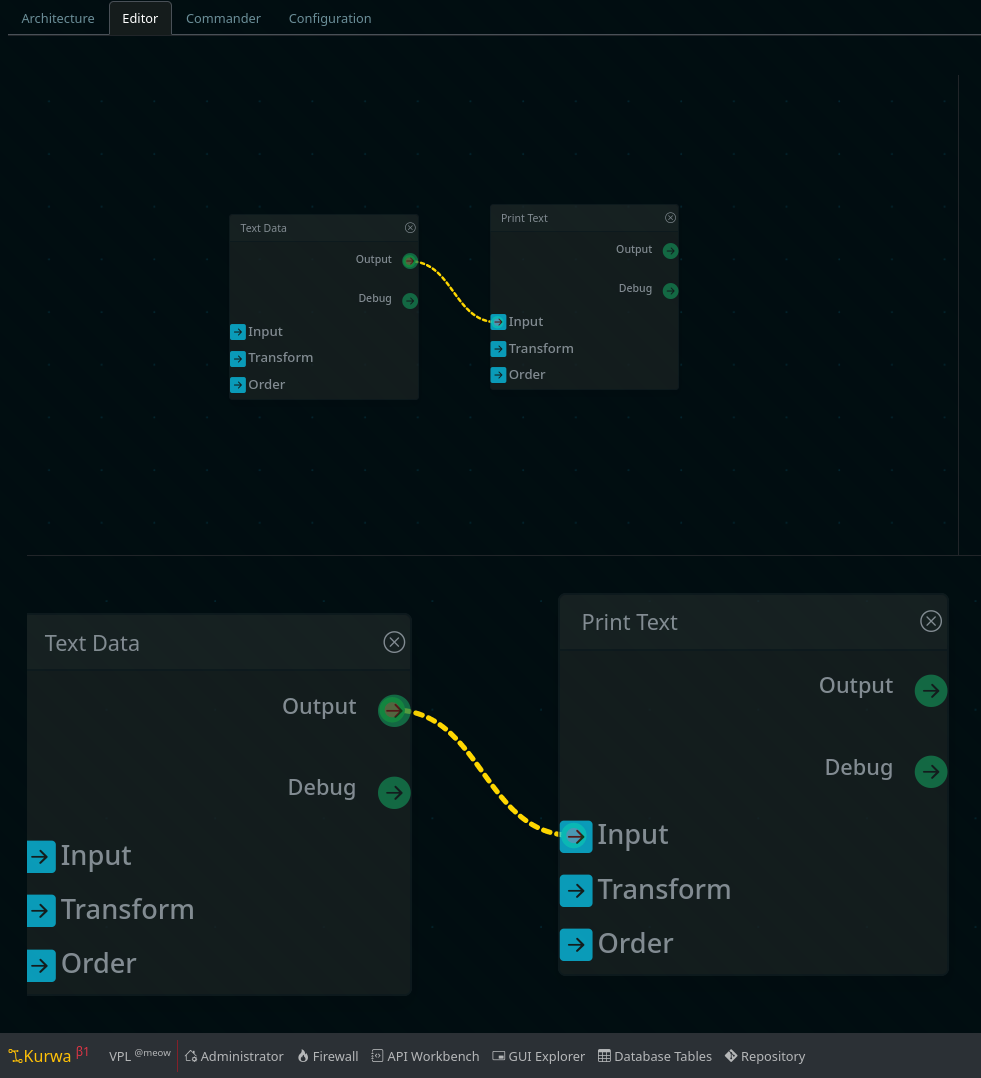
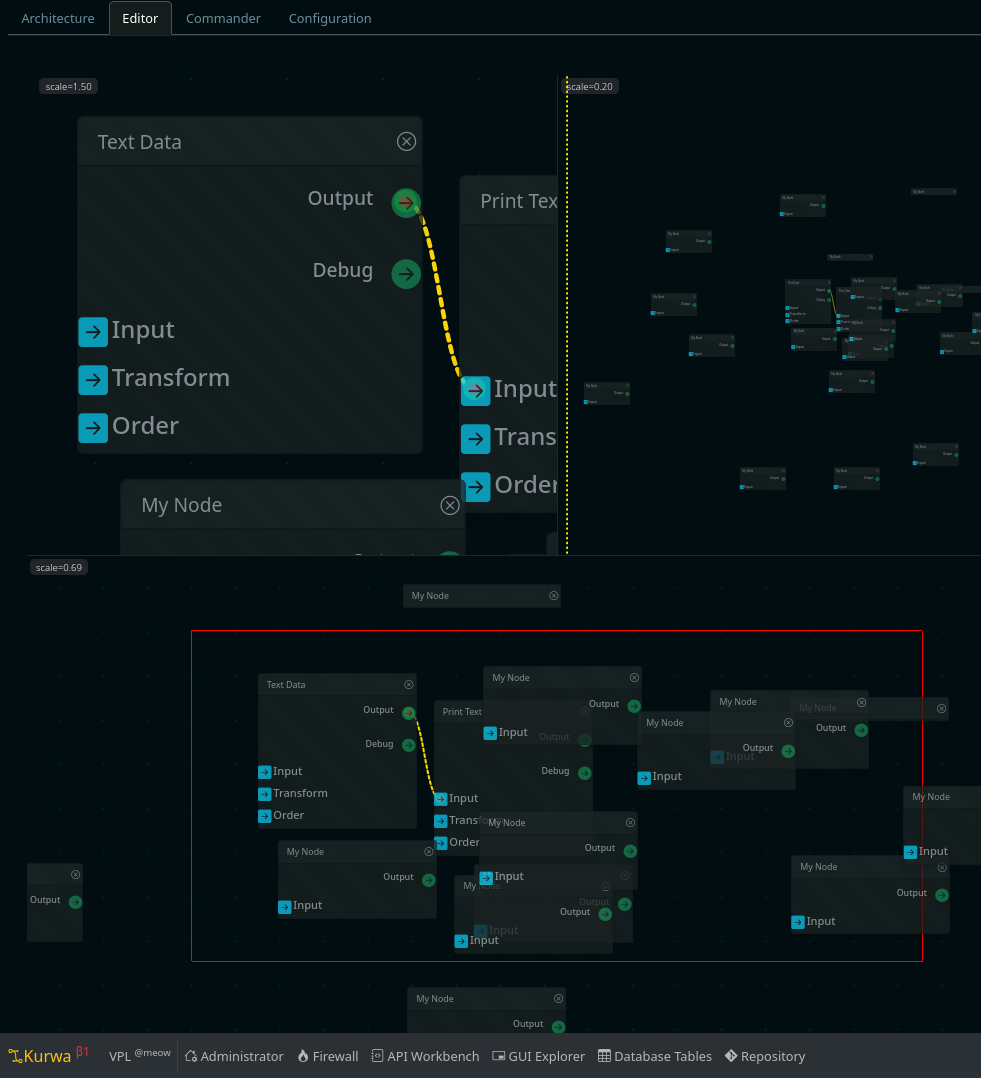
Node Creation (dblclick) :shipit:

diff --git a/src/lib/ui/vpl/View.svelte b/src/lib/ui/vpl/View.svelte
@@ -12,6 +12,7 @@ import Source from '$lib/ui/Source.svelte';
 import Node from '$lib/ui/vpl/Node.svelte';
 import Anchor from '$lib/ui/vpl/Anchor.svelte';
 import {pulline} from '$lib/traits/pullable.js';
+import {toolbox} from '$lib/actions/toolbox.js';
 
 let unsubscribe = [];
 
@@ -29,16 +30,34 @@ let parent = {};
 let nodes = [];
 let edges;
 
+let updates = 0;
+$: refresh(updates);
+
+async function refresh(){
+  console.info('FINISH ME: Assemble Nodes In Here...! Or is this too much info, they can be assembeled inside api too');
+  parent = await system.node($location);
+  nodes = await system.list($location);
+  edges = parent.writable.edges; // All the edges are stored in the parent.
+  console.log('EDGES', $edges);
+}
+
 onMount(() => {
+
+
+
   unsubscribe.push(location.subscribe(async value=>{
-    console.info('FINISH ME: Assemble Nodes In Here...! Or is this too much info, they can be assembeled inside api too');
-
-    parent = await system.node($location);
-    nodes = await system.list($location);
-    edges = parent.writable.edges; // All the edges are stored in the parent.
-    console.log('EDGES', $edges);
-
+    await refresh()
   }))
+  // unsubscribe.push(system.records.subscribe(async value=>{
+  //   console.info('FINISH ME: Assemble Nodes In Here...! Or is this too much info, they can be assembeled inside api too');
+  //   parent = await system.node($location);
+  //   nodes = await system.list($location);
+  //   edges = parent.writable.edges; // All the edges are stored in the parent.
+  //   console.log('EDGES', $edges);
+  // }))
+
+  // this.records.subscribe(records=>console.log('Records have changed', records))
+
 });
 onDestroy(() => {
   unsubscribe.map(o=>o())
@@ -64,7 +83,11 @@ function panzoom(elem, options){
   // This example also showcases the canvas option
   // Pointer events anywhere in the parent move
   // the target.
-  const panzoom = Panzoom(elem, { startScale: options.scale, canvas: true })
+  const panzoom = Panzoom(elem, {
+    startScale: options.scale,
+    canvas: true,
+    handleStartEvent: () => {},
+  })
   const parent = elem.parentElement
   // No function bind needed
   parent.addEventListener('wheel', panzoom.zoomWithWheel)
@@ -80,74 +103,56 @@ function panzoom(elem, options){
     translate.y.set(event.detail.y);
     translate.z.set(event.detail.scale);
   })
-
-
-
 }
 
 
-
-function fixCircularReferences() {
-  const defs={};
-  return (k,v) => {
-    const def = defs[v];
-    if (def && typeof(v) == 'object') return '['+k+' is the same as '+def+']';
-    defs[v]=k;
-    return v;
-  }
+async function createNode(seed){
+  const options = {
+    name: "My Node",
+    input: JSON.stringify([ { id: "in", name: "Input", top: 0, left: 0 } ]),
+    output: JSON.stringify([ { id: "out", name: "Output", top: 0, left: 0 } ]),
+    edges: JSON.stringify([]),
+  };
+  const node = Object.assign({}, seed, options)
+  await system.create($location, JSON.stringify(node))
+  await refresh()
 }
+
 </script>
 
- 
+
 
 {#if $location}
   <div bind:this={node} class="panzoom-parent position-relative" style=" overflow: hidden; user-select: none; touch-action: none; cursor: move;">
 
-  {#if debug}
-    <span class="position-absolute top-0 fw-light badge rounded-pill bg-dark" style="left: 1px;">
-      location={$location}
-
-      $z={$z}
-      offset={node.offsetLeft||'?'}x{node.offsetTop||'?'}
-      nodes={nodes.length}
-      edges={edges.length}
+    <span class="position-absolute fw-light badge rounded bg-dark" style="left: 3px; top: 3px;">
+      scale={$z.toFixed(2)}
     </span>
-  {/if}
 
-  <svg class="position-absolute top-0 left-0 w-100 h-100"><defs><pattern id="graph-pattern-{workspaceId}" x={ $x*$z } y={ $y*$z } width="{64*$z}" height="{64*$z}" patternUnits="userSpaceOnUse"><circle class="background-dot " style="fill: var(--bs-primary-border-subtle);" r="{ 1 }" cx={32} cy={32}></circle></pattern></defs><rect width="100%" height="100%" fill="url(#graph-pattern-{workspaceId})"></rect></svg>
+    <svg class="position-absolute top-0 left-0 w-100 h-100" style="pointer-events: none;"><defs><pattern id="graph-pattern-{workspaceId}" x={ $x*$z } y={ $y*$z } width="{64*$z}" height="{64*$z}" patternUnits="userSpaceOnUse"><circle class="background-dot " style="fill: var(--bs-primary-border-subtle);" r="{ 1 }" cx={32} cy={32}></circle></pattern></defs><rect width="100%" height="100%" fill="url(#graph-pattern-{workspaceId})"></rect></svg>
+  	<div use:panzoom={{scale: $z}} class="w-100" style="height: 480px; border: solid 1px red;">
 
-  	<div use:panzoom={{scale: $z}} class="w-100" style=" height: 480px; ">
-
-      <div class="position-relative">
-
-        <svg class="position-absolute" style="top: -1000px; left:-1000px;    width:  5000px; height: 5000px;">
+        <svg class="position-absolute" style="top: -1000px; left:-1000px; width:  5000px; height: 5000px; pointer-events: none;">
         <defs>
           <marker id="circle" markerWidth="16" markerHeight="16" refX="8" refY="8">
             <circle cx="8" cy="8" r="2" stroke="green" fill="#ff0000" />
           </marker>
         </defs>
-        <polyline
-          fill="none"
-          stroke="black"
-          points="20,100 40,60 70,80 100,20"
-          marker-mid="url(#circle)" />
+        <polyline fill="none" stroke="black" points="20,100 40,60 70,80 100,20" marker-mid="url(#circle)" />
           {#if $pullineActive}
             <Anchor color={writable("green")} x1={pulline.x1} y1={pulline.y1} x2={pulline.x2} y2={pulline.y2}  {translate} />
           {/if}
-
           {#if $edges}
             {#each $edges as edge (edge.id)}
               <Anchor color={edge.color} edge={edge.id} x1={edge.output.left} y1={edge.output.top} x2={edge.input.left} y2={edge.input.top} {translate} />
             {/each}
           {/if}
-
         </svg>
 
-         {#each nodes as node (node.id)}
-           <Node bind:node {translate}/>
-         {/each}
-
-  	    </div>
+        <div use:toolbox={{translate, operation:createNode}} class="position-absolute" style="top: -1000px; left:-1000px; width:  5000px; height: 5000px; border: dotted yellow 12px;"></div>
+        {#each nodes as node (node.id)}
+          <Node bind:node {translate}/>
+        {/each}
 
   	</div>
   </div>

diff --git a/src/lib/actions/toolbox.js b/src/lib/actions/toolbox.js
@@ -1,0 +1,63 @@
+/*
+  NOTES
+  pullable is in Node -> card -> icon -> .
+*/
+import {first} from 'lodash-es';
+import { v4 as guid } from 'uuid';
+import { get, writable } from 'svelte/store';
+import {Base} from '../traits/Base.js';
+export const pulline =  { active:writable(false), x1:writable(0), y1:writable(0), x2:writable(0), y2:writable(0) } ;
+
+class Toolbox extends Base {
+  description = 'The system for pulling new nodes out of anchors';
+
+  // Regarding Object Configuration
+  element;
+  operation;
+  translate;
+
+  constructor({element, operation, translate}){
+    super()
+    this.element = element;
+    this.operation = operation;
+    this.translate = translate;
+    this.create();
+  }
+
+  create(){
+    this.on(this.element, 'dblclick: primary', this.activate);
+    console.log(`Installed dblclick on`, this.element);
+  }
+  destroy(){
+    this.off('mousedown: primary');
+    if(this.destructors.length) console.error(`lol, ${this.description} has memory leaks now.`);
+  }
+
+  activate(e) {
+    this.operate(e);
+    // this.on( document, 'mouseup: end dragging operation', this.deactivate);
+  };
+  deactivate(e) {
+    // this.off('mouseup: end dragging operation');
+  }
+
+  operate(e){
+    console.log('TODO: offset layer positioning!!!');
+    let {layerX:left,layerY:top} = e;
+    left = left - 1000;
+    top = top - 1000;
+    const position = {left, top};
+    this.operation(position)
+  }
+
+}
+
+
+export function toolbox(element, options={}){
+  const operation = new Toolbox({element, ...options});
+  return {
+		destroy() {
+			operation.destroy();
+		}
+	};
+}

diff --git a/src/lib/server/api/vpl/create/program.js b/src/lib/server/api/vpl/create/program.js
@@ -1,21 +1,41 @@
-import {isEmpty, pick} from "lodash-es";
-import { Vertex,Link } from '$lib/server/db/index.js';
+import {isEmpty, pick, omit} from "lodash-es";
+import { Node } from '$lib/server/db/index.js';
 import { flash, code, session, user } from '$lib/packet.js';
 import { SIGN_IN_SUCCESS, SIGN_IN_FAILURE } from '$lib/code.js';
 
-export default async function create(parent, name){
+export default async function create(parent, data){
   const owner = this.user.id;
   const created = (new Date()).toISOString();
   const updated = (new Date()).toISOString();
-
-  const model = 'vertex';
-  const vertex = await Vertex.query().insert({
-    owner,
-    parent,
-    model,
-    name,
-    created,
-    updated,
-  });
-  return [{kind:'identity', id:vertex.id}];
+  const defaults = {
+    name: "My Node",
+    input: [
+      {
+        id: "in",
+        name: "Input",
+        top: 0,
+        left: 0
+      }
+    ],
+    output: [
+      {
+        id: "out",
+        name: "Output",
+        top: 0,
+        left: 0
+      }
+    ],
+    edges: []
+  };
+  const blessed = omit( JSON.parse(data), ['id', 'owner']);
+  const enforced = {
+      owner,
+      parent,
+      created,
+      updated,
+      revision:1,
+  };
+  const {id} = await Node.query().insert(Object.assign({}, defaults, blessed, enforced) );
+  const node = (await Node.query().where({id, owner}).first()).toJSON();
+  return [{kind:'node', data:node}];
 }

diff --git a/src/lib/vpl/Node.js b/src/lib/vpl/Node.js
@@ -225,7 +225,12 @@ export default class Node extends Writables {
 
 
 	#ioBuilder(json, existing=[]){
-		const master = JSON.parse(json);
+		let master;
+    try {
+      master = JSON.parse(json);
+    }catch(e){
+      master = [];
+    }
     master.forEach(anchor=>{
       const located = existing.find(o=>o.id==anchor.id);
       if(located){
@@ -309,7 +314,14 @@ export default class Node extends Writables {
   get edges() {
     //  "edges": [{id:'a', source:'2', output:'out', destination:'3', input:'b', color:"gold"}]
 
-    const rehydrated = JSON.parse(this.pojo.edges || "[]");
+    let rehydrated;
+
+     try {
+      rehydrated = JSON.parse(this.pojo.edges || "[]");
+     } catch(e){
+       rehydrated = [];
+     }
+
     rehydrated.forEach((o) => (o.color = writable(o.color)));
     rehydrated.forEach(edge => {
     	edge.source = this.nodes[edge.source];

diff --git a/src/lib/vpl/System.js b/src/lib/vpl/System.js
@@ -62,6 +62,12 @@ export default class System {
     return await Promise.all( nodes.map(async node=>await this.hydrate(node)) );
   }
 
+  async create(id, data){
+    const node = (await api.vpl.create(id, data)).data.find(o=>o.kind=="node")?.data;
+    console.log('create returned POJO', node);
+    return await this.hydrate(node);
+  }
+
   async patch(id, data){
     console.log('sending patch to api.vpl.patch on server', id, data);
     const node = (await api.vpl.patch(id, data)).data.find(o=>o.kind=="node")?.data;

diff --git a/src/lib/server/api/vpl/destroy/program.js b/src/lib/server/api/vpl/destroy/program.js
@@ -5,6 +5,6 @@ import { SIGN_IN_SUCCESS, SIGN_IN_FAILURE } from '$lib/code.js';
 
 export default async function destroy(id){
   const owner = this.user.id;
-  const deleted = await Node.query().delete().where({owner,id});
+  const deleted = await Node.query().delete().where({owner, id});
   return [deleted];
 }

diff --git a/src/lib/ui/vpl/Node.svelte b/src/lib/ui/vpl/Node.svelte
@@ -40,8 +40,8 @@
 
   let registered = {}; // anchor registration
 
-  function destroy(id){
-    system.destroy(id);
+  async function destroy(id){
+    await system.destroy(id);
   }
 
   function getAnchorPosition(anchorNode) {

diff --git a/src/lib/ui/commander/Commander.svelte b/src/lib/ui/commander/Commander.svelte
@@ -20,6 +20,7 @@
       <button type="button" class="btn btn-secondary" on:click={()=>system.all()}>Refresh</button>
     </div>
   </div>
+
   <div class="row g-0">
     <div class="col-1 g-0">
       <div class="list-group">
